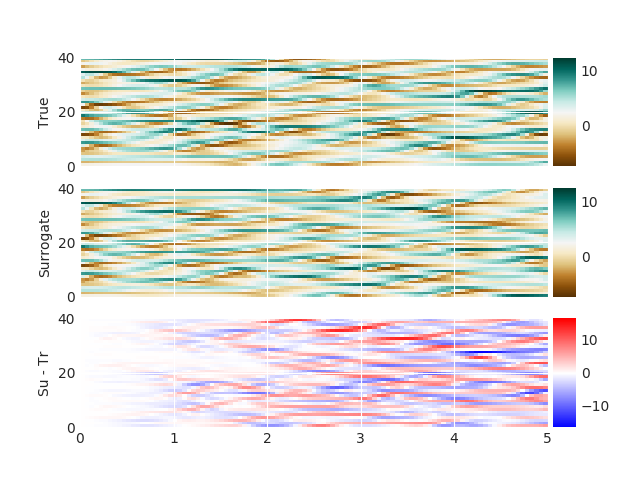
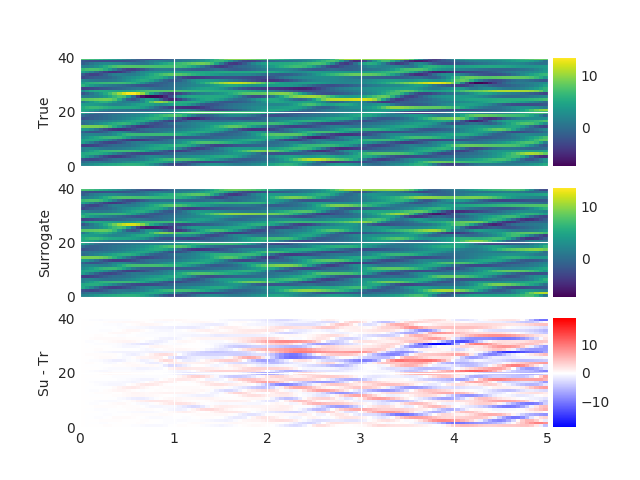
plot colors

diff --git a/utils.py b/utils.py
@@ -10,6 +10,8 @@ from keras import regularizers
 from keras.callbacks import EarlyStopping
 import warnings
 import matplotlib.pyplot as plt
+import matplotlib
+matplotlib.use('Agg') #change to activate a GUI matplotlib backend
 from sklearn.linear_model import Ridge
 from tools.randvars import RV, GaussRV
 from tools.math import Id_mat
@@ -728,8 +730,8 @@ def plot_L96_2D(xx,xxpred,tt,labels,vmin=None,vmax=None,vdelta=None):
 		cax [i] = divider[i].append_axes('right', size='5%', pad=0.05)
 
 	delta= dict()
-	delta[0] = ax[0].imshow(xx.T,vmin=vmin,vmax =vmax,extent=[tmin,tmax,0,m],aspect='auto')
-	delta[1] = ax[1].imshow(xxpred.T,vmin=vmin,vmax=vmax,extent=[tmin,tmax,0,m],aspect='auto')
+	delta[0] = ax[0].imshow(xx.T,cmap=plt.get_cmap('viridis'),vmin=vmin,vmax =vmax,extent=[tmin,tmax,0,m],aspect='auto')
+	delta[1] = ax[1].imshow(xxpred.T,cmap=plt.get_cmap('viridis'),vmin=vmin,vmax=vmax,extent=[tmin,tmax,0,m],aspect='auto')
 	delta[2] = ax[2].imshow(xxpred.T- xx.T,cmap=plt.get_cmap('bwr'),
 		extent=[tmin,tmax,0,m],aspect='auto',vmin=-vdelta,vmax=vdelta)
 	ax[0].set_ylabel(labels[0])
